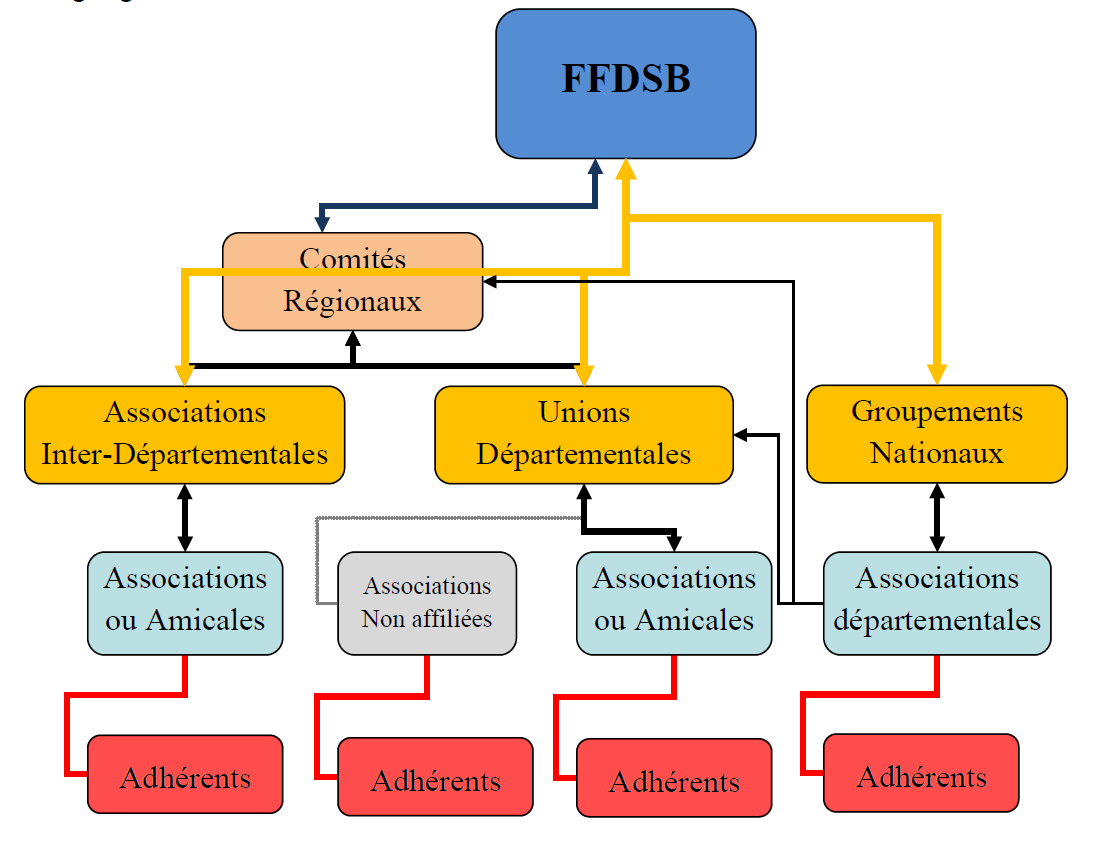
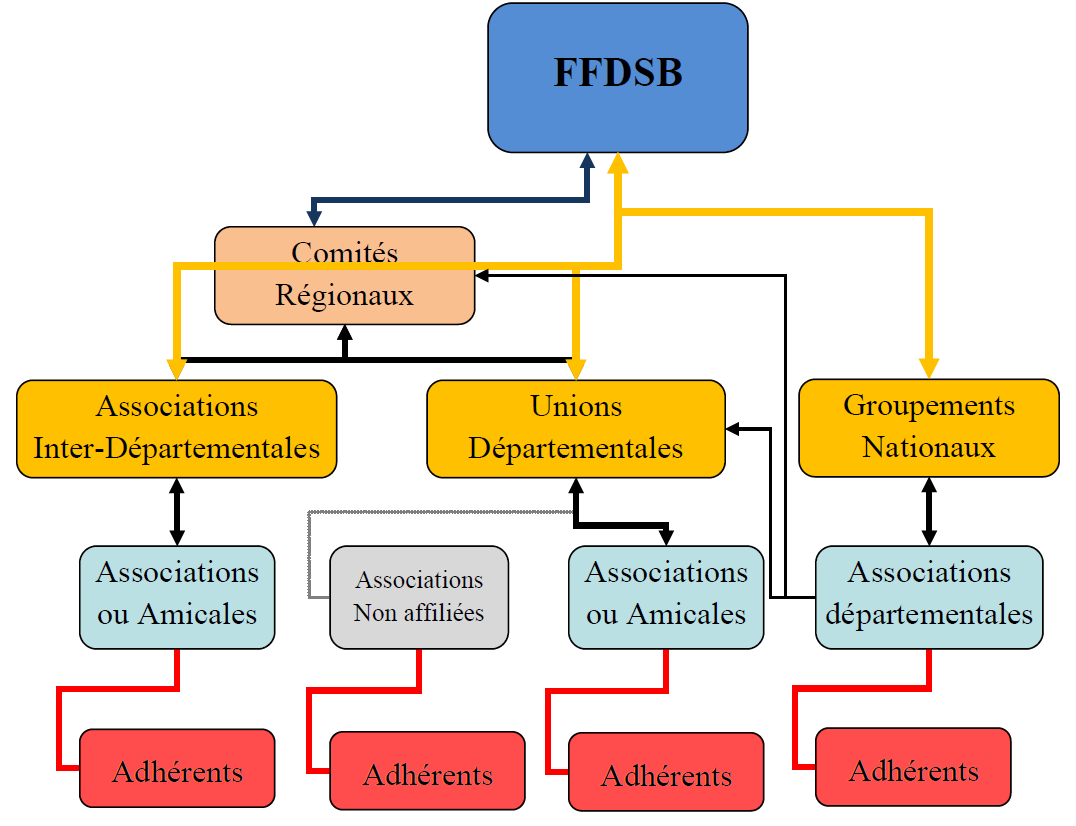
federation - done

diff --git a/docs/Fonctionnement/2-federation.md b/docs/Fonctionnement/2-federation.md
@@ -4,8 +4,17 @@ sidebar_position: 2
 
 # Organisation de la Fédération
 
-- schéma de l'organisation de la fédération
+Notre association est membre de la Fédération Française pour le Don de Sang Bénévole. Cela nous permet d'unir nos forces et de créer un réseau de bénévoles autour de la collecte de dons de sang. Mais également de bénéficer de nombreux avantages tels que des prix réduit sur l'assurance et une meilleure collaboration entre les différentes entités gravitant autour de l'EFS.
 
- - UD rôle ?
+### Schéma de la structure de l'organisation de la fédération
+Ci-dessous le schéma de la structure de l'organisation de la fédération.
 
- 
+![](/img/organigramme.png)
+
+### L'Union Départementale
+Notre amicale dépend donc de l'Union Départementale du Rhône pour laquelle nous cotisons tous les ans à hauteur de 2€ par bénévole.
+
+Le rôle de l'Union Départementale est de :
+- organiser les collectes évènementielles dans le département,
+- fédérer les amicales et partager les bonnes pratiques,
+- faire remonter des points bloquants à l'EFS en parlant d'une seule voix au nom des amicales du Rhône, etc...
